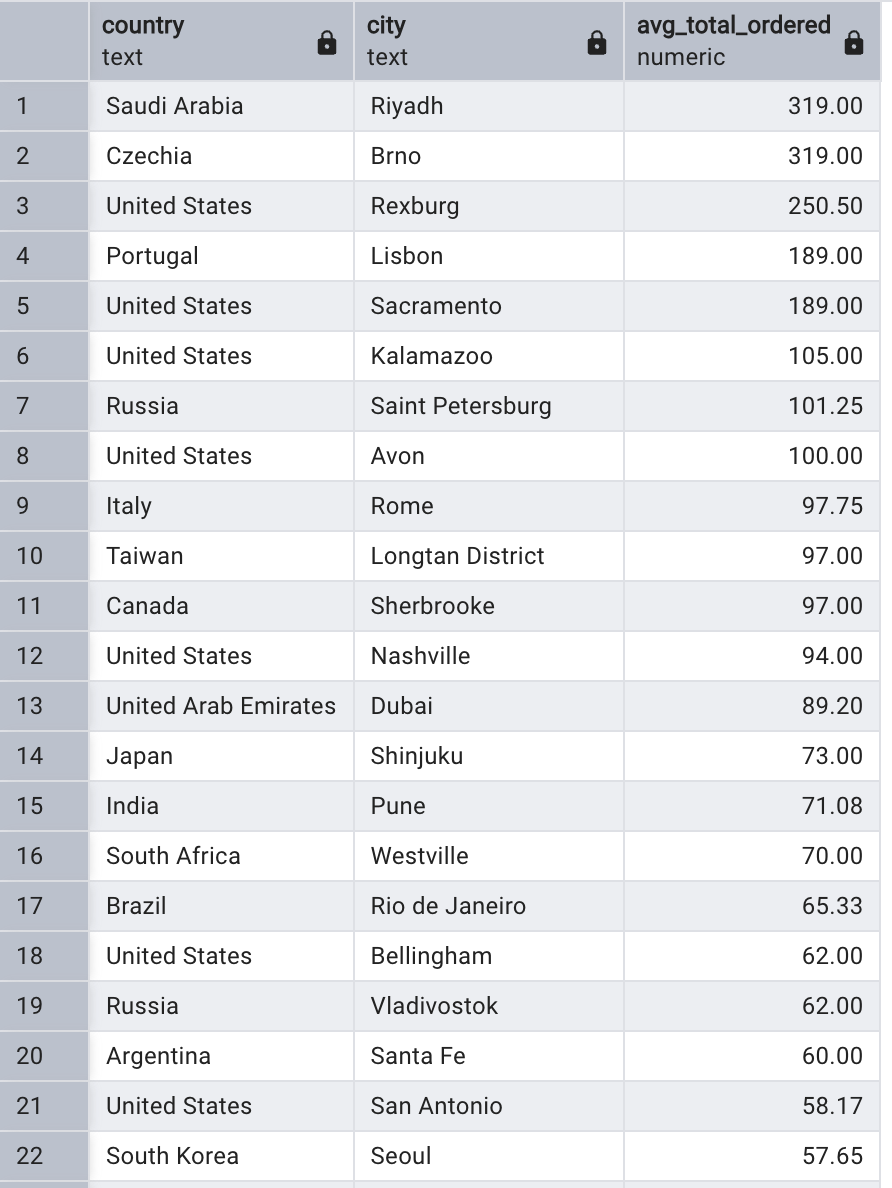
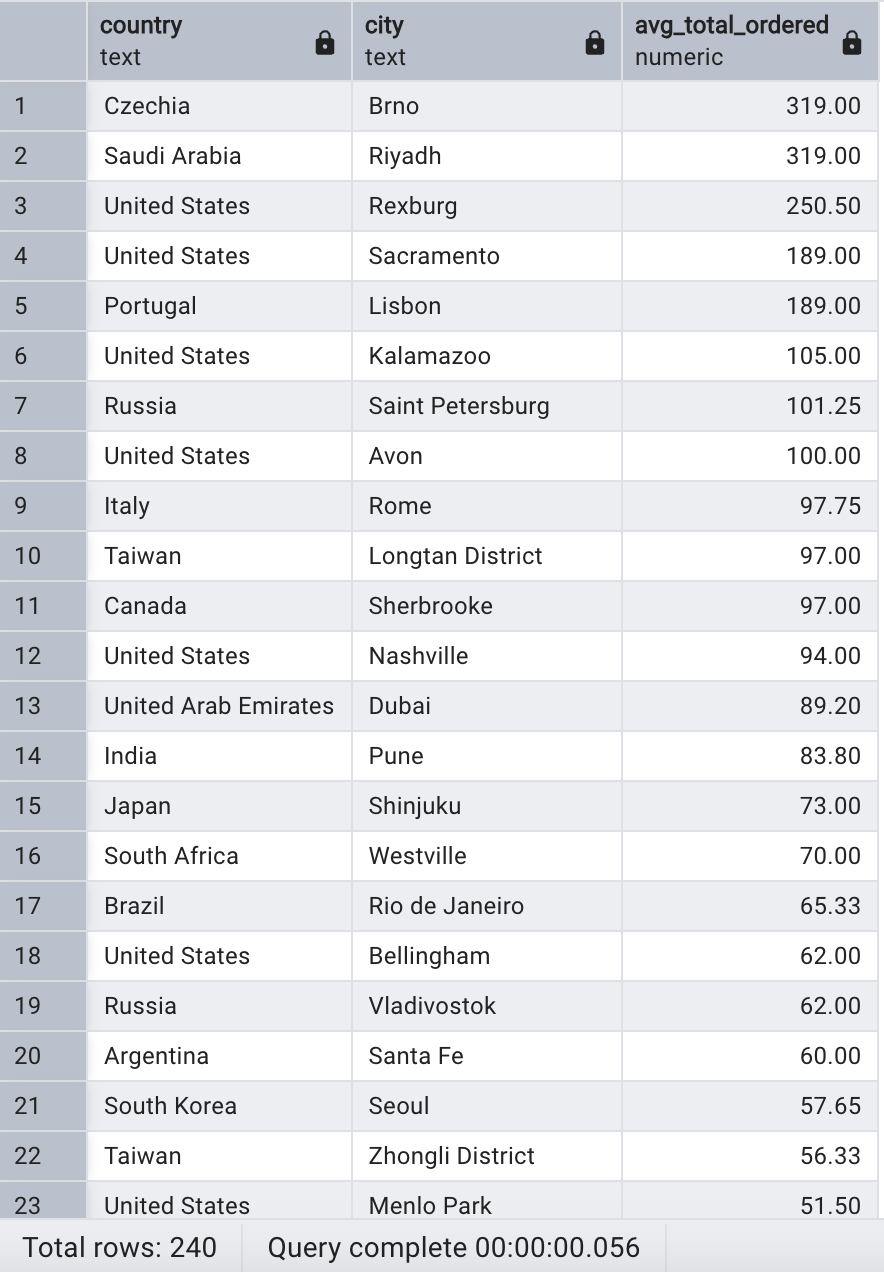
QA portion is completed

diff --git a/QA.md b/QA.md
@@ -1,6 +1,43 @@
 What are your risk areas? Identify and describe them.
 
+1. The below query was executed to determine the primary key for the e-commerce dataset. The goal is to identify unique identifiers as it cannot contain nulls or duplicates.
 
+```sql
+SELECT sku, COUNT(*) AS unique_identifiers
+FROM products 
+GROUP BY sku 
+HAVING COUNT(*) > 1;
+```
 
-QA Process:
-Describe your QA process and include the SQL queries used to execute it.
+2. The below query was executed to check if joining sales_by_sku and all_sessions tables would result in duplicates which could impact the average result. The result yielded to count > 1 confirming the duplicates and need to use DISTINCT. 
+
+```sql
+SELECT 	product_sku, COUNT(*) AS count
+FROM 	all_sessions
+GROUP BY product_sku
+ORDER BY count DESC;
+```
+
+3. The values in columns for product refund, product quantity, and product price doesn't add up to the product revenue column. The below query was used to filter out the NULLs to visually see the discrepancy.
+
+```sql
+SELECT	COUNT(product_refund_amount) AS refund_count,
+		COUNT(product_quantity) AS quantity_count,
+		COUNT(product_price) AS price_count,
+		COUNT(product_revenue) AS revenue_count
+FROM	all_sessions
+WHERE	product_refund_amount IS NOT NULL
+		OR product_quantity IS NOT NULL
+		OR product_price IS NOT NULL
+		OR product_revenue IS NOT NULL;
+```
+
+Followed by the following query:
+
+```sql
+SELECT	product_quantity, product_price, product_revenue
+FROM	all_sessions
+WHERE	product_quantity IS NOT NULL
+		AND product_price IS NOT NULL
+		AND product_revenue IS NOT NULL;
+```

diff --git a/starting_with_data.md b/starting_with_data.md
@@ -1,4 +1,4 @@
-Question 1: **What is the percentage difference in revenue between analytics and all_sessions for each visit?**
+**Question 1: What is the percentage difference in revenue between analytics and all_sessions for each visit?**
 
 SQL Queries:
 ```sql
@@ -31,7 +31,7 @@ Answer:
 ![answer_4_1](./images/sd_question_1.png)
 
 
-Question 2: **Which marketing channels drive the highest total revenue?**
+**Question 2: Which marketing channels drive the highest total revenue?**
 
 SQL Queries:
 ```sql
@@ -48,7 +48,7 @@ Answer:
 ![answer_4_2](./images/sd_question_2.png)
 
 
-Question 3: **Which products with matching SKUs generate the most revenue and how much time do users spend on site?**
+**Question 3: Which products with matching SKUs generate the most revenue and how much time do users spend on site?**
 
 SQL Queries:
 ```sql
@@ -69,7 +69,7 @@ Answer:
 ![answer_4_3](./images/sd_question_3.png)
 
 
-Question 4: **What are the yearly revenue trends in the U.S. market?**
+**Question 4: What are the yearly revenue trends in the U.S. market?**
 
 SQL Queries:
 ```sql
@@ -88,7 +88,7 @@ Answer:
 ![answer_4_4](./images/sd_question_4.png)
 
 
-Question 5: **Which products fall into low demand/overstock, high demand/understock, or balanced categories?**
+**Question 5: Which products fall into low demand/overstock, high demand/understock, or balanced categories?**
 
 SQL Queries:
 ```sql

diff --git a/starting_with_questions.md b/starting_with_questions.md
@@ -33,25 +33,36 @@ Answer:
 
 **Question 2: What is the average number of products ordered from visitors in each city and country?**
 
-
 ```sql
 WITH CleanedData AS (
-SELECT	all_s.country,
-		CASE
-			WHEN all_s.city IN ('(not set)','not available in demo dataset') THEN 'Unknown City'
-			ELSE all_s.city
-			END AS city,
-		ROUND(AVG(total_ordered),2) AS avg_total_ordered
-FROM	sales_by_sku AS sales
-		JOIN all_sessions AS all_s
-		ON sales.product_sku = all_s.product_sku
-WHERE 	all_s.city IS NOT NULL AND all_s.country IS NOT NULL
-GROUP BY all_s.country, city
-ORDER BY avg_total_ordered DESC
-					)
+SELECT 	DISTINCT product_sku, country,
+    	CASE
+      		WHEN city IN ('(not set)', 'not available in demo dataset') THEN 'Unknown City'
+      		ELSE city
+    	END AS city
+FROM 	all_sessions
+WHERE 	city IS NOT NULL 
+		AND country IS NOT NULL
+					),
+JoinedData AS (
+SELECT	cd.country,
+ 	   	cd.city,
+    	ss.total_ordered
+FROM 	CleanedData AS cd
+  		JOIN sales_by_sku AS ss 
+		ON cd.product_sku = ss.product_sku
+			  ),
+AggregateData AS (
+SELECT	country,
+    	city,
+    	ROUND(AVG(total_ordered), 2) AS avg_total_ordered
+FROM 	JoinedData
+GROUP BY country, city
+				)
 SELECT	*
-FROM	CleanedData
-WHERE	city != 'Unknown City';
+FROM 	AggregateData
+WHERE 	city != 'Unknown City'
+ORDER BY avg_total_ordered DESC;
 ```
 
 Answer:
